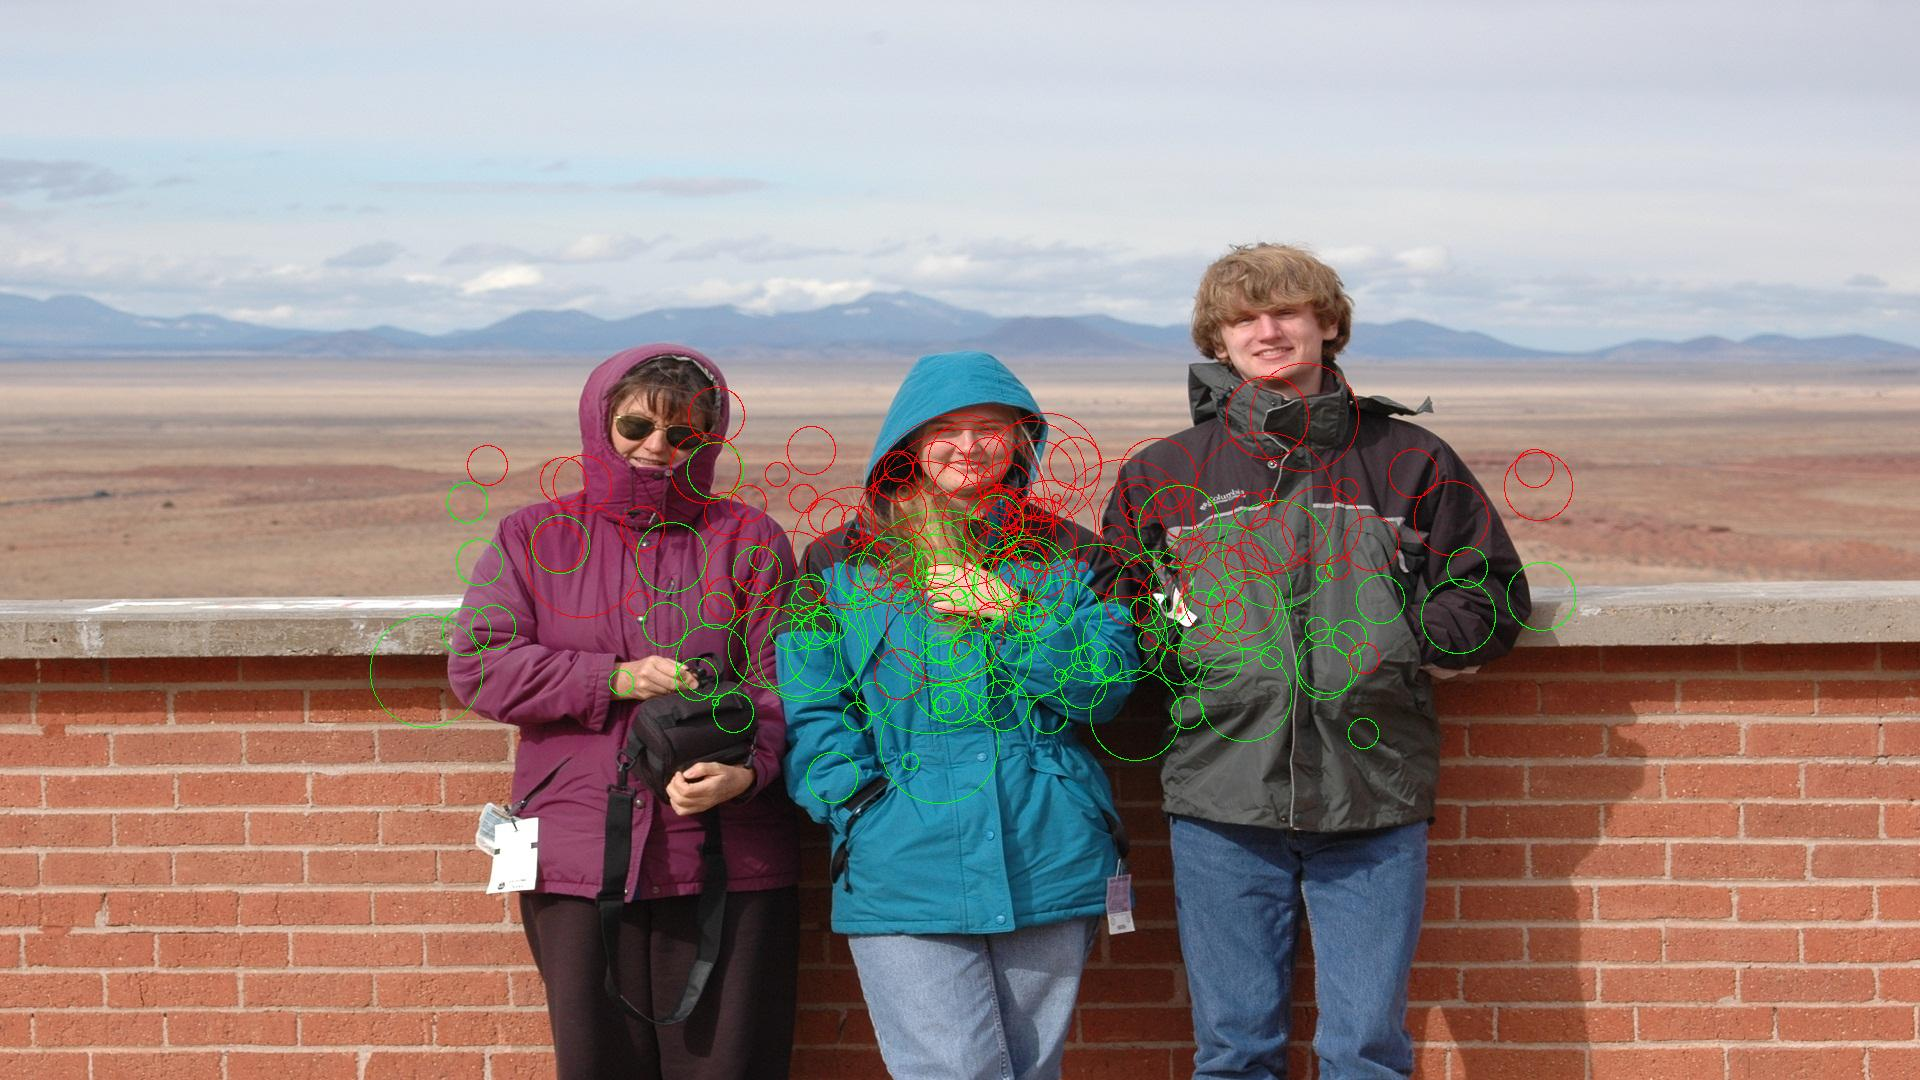
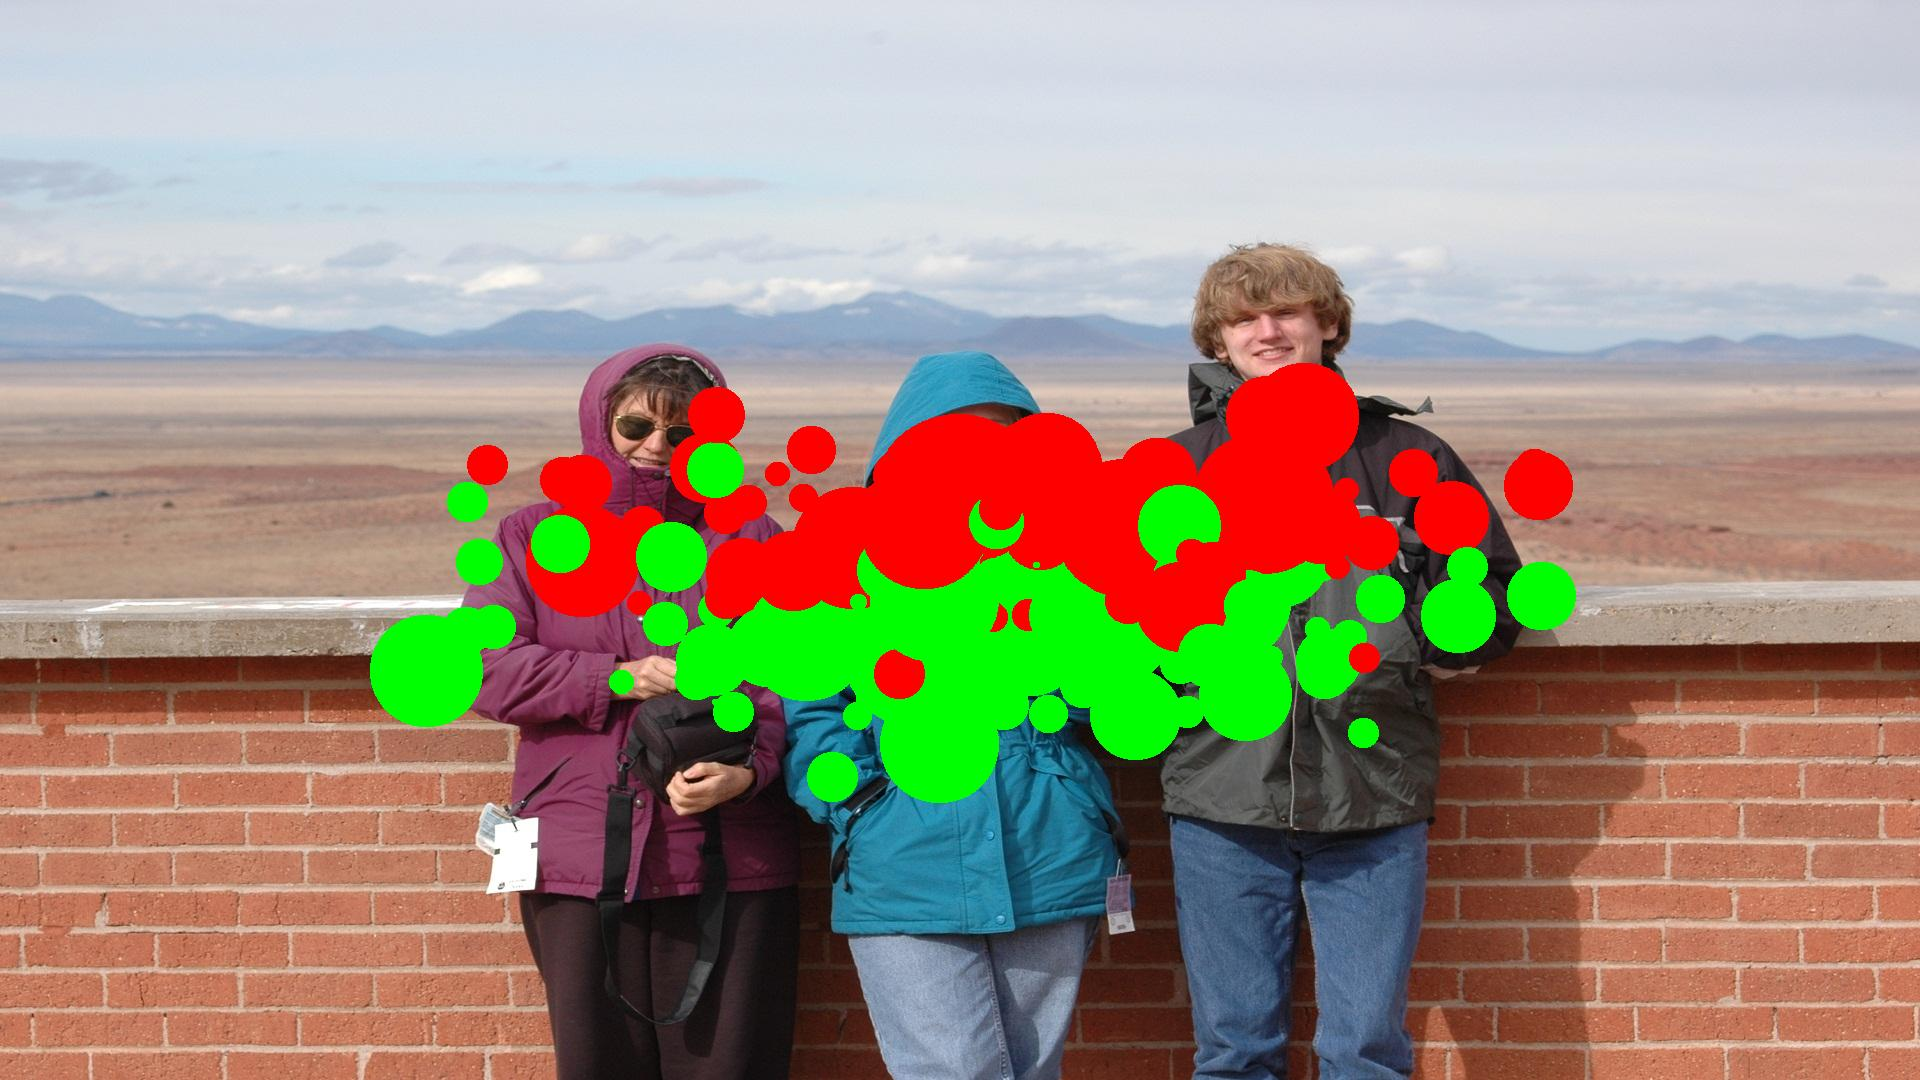
Added drawMovie() function for image creation and composition example

Changed region(s): [[0.1875, 0.3361, 0.8438, 0.7639]]

diff --git a/dots.py b/dots.py
@@ -75,9 +75,34 @@ def drawFixationMovie(fixations, imageFile):
   while (len(fixations) != 0):
     current = fixations.pop()
     if (current.isRight()):
-      drawCirc(draw, (int(current.axp), int(current.ayp)), int(durScale * current.dur), rightDotColor)
+      drawDot(draw, (int(current.axp), int(current.ayp)), int(durScale * current.dur), rightDotColor)
     if (current.isLeft()):
-      drawCirc(draw, (int(current.axp), int(current.ayp)), int(durScale * current.dur), leftDotColor)
+      drawDot(draw, (int(current.axp), int(current.ayp)), int(durScale * current.dur), leftDotColor)
 
   im.save("overlay.jpg", "JPEG")
+  
+def drawMovie(imageFile):
+  '''
+	fixations - a list of Fixation objects
+	imageFile - filename of the image we will overlay the fixations onto
+
+	Draws fixations as circles over the image file 
+	Outputs sequence of image files as image001.jpg, image002.jpg, etc.
+	
+  Images can be converted to avi with the command
+  ffmpeg -f image2 -i img%03d.jpg a.avi
+  '''
+  radius = 20
+  im = Image.open(imageFile)
+  draw = ImageDraw.Draw(im)
+
+  drawDot(draw, (20,20), radius, (255,0,0))
+  for i in range(1, 60):
+    print i
+    im.save("img" + "%03d" % i + ".jpg")
+	  
+  for i in range(60, 120):
+    print i
+    drawDot(draw, (100,100), radius, (255,0,0))
+    im.save("img" + "%03d" % i + ".jpg")
 

diff --git a/main.py b/main.py
@@ -17,6 +17,6 @@ fileToParseName = sys.argv[1]
 
 fixations = Vision.parseEDFASC(fileToParseName)
 
-dots.drawFixations(fixations, "image.jpg")
+dots.drawFixationMovie(fixations, "image.jpg")
 
 
